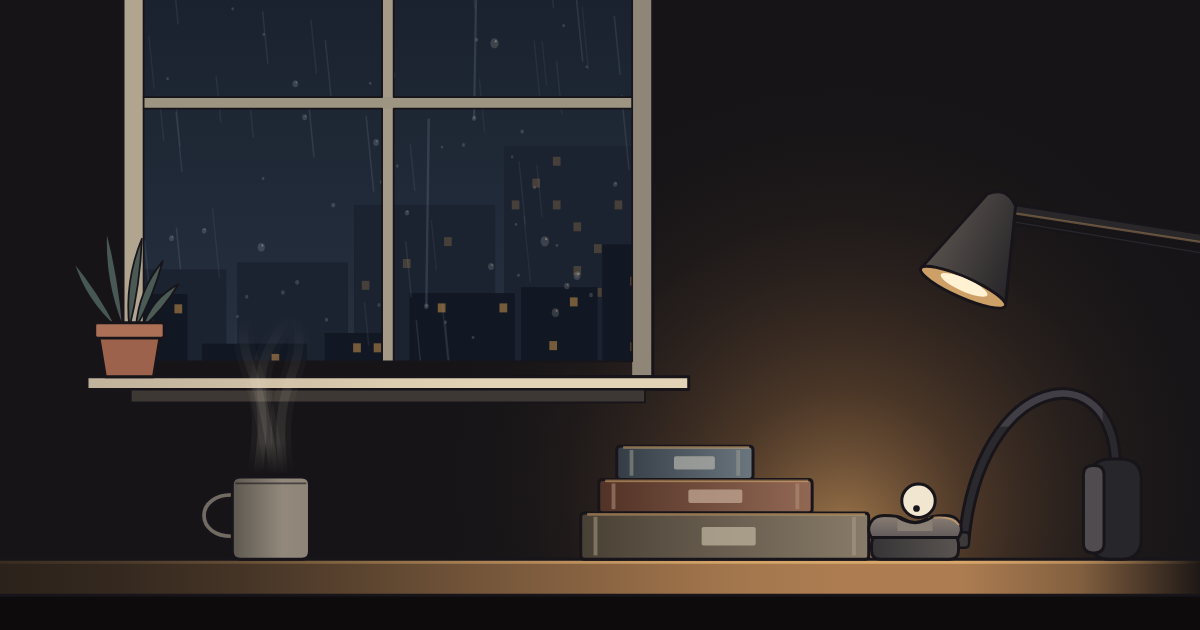
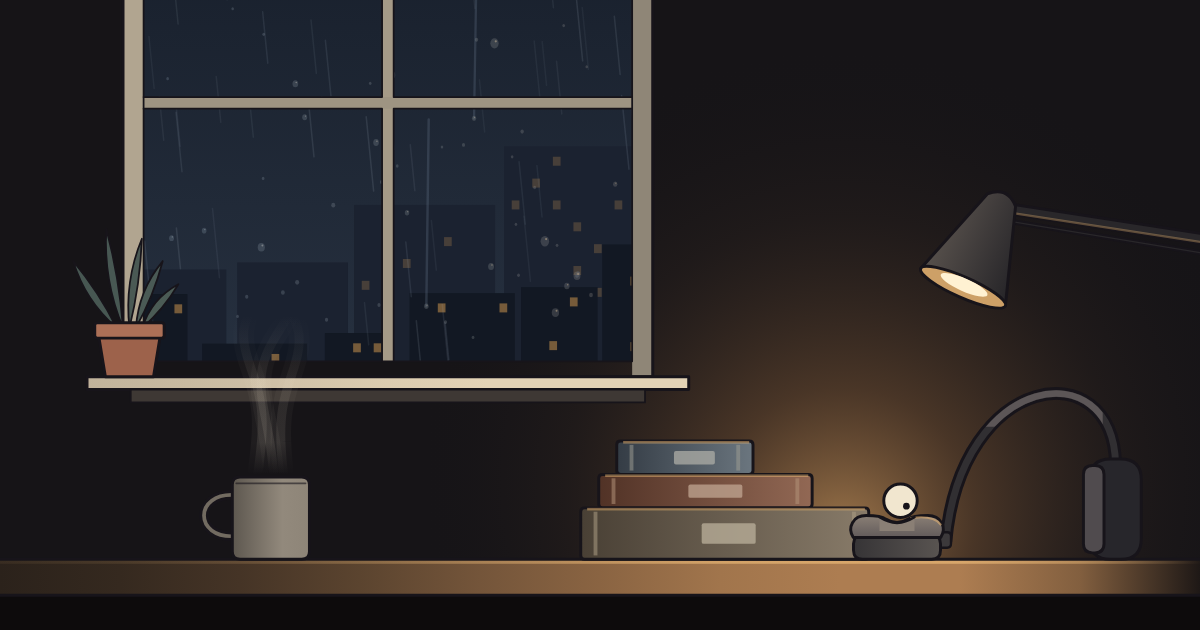
Soft Lamp: the last step down is a drop into the seat, on the beat
The bottom book's top stood level with the cup's cushion, so the ball
crept to the book's corner, lingered, rolled onto the cushion's rim on
beat three and only then down into the hollow: the arrival was late and
the landing invisible. The bottom book is thicker (the stair's risers
stay even, the sill's drop onto the top book a little shorter) and the
cup lies a little in front of its corner, so the ball tips off and
drops 0.12 cells into the hollow, landing on beat three with a squash,
and one small damped rock settles it. The share card is re-taken at the
same moment.

Changed region(s): [[0.4933, 0.6333, 0.8633, 0.9048], [0.8633, 0.6032, 0.925, 0.6635]]

diff --git a/apps/rube/src/shows/versions/soft-lamp/lamp/desk.ts b/apps/rube/src/shows/versions/soft-lamp/lamp/desk.ts
@@ -35,19 +35,23 @@ export interface Book {
   pages: string
 }
 
-/** The stair, top step first: each book stands out to the right of the one on it by a step. */
+/**
+ * The stair, top step first: each book stands out to the right of the one on it by a step. The bottom one is the
+ * thick one, so its top stands a little over the cup's cushion and the last step is a drop into the seat.
+ */
 export const BOOKS: Book[] = [
-  { x0: 0.34, x1: 1.4, top: -0.88, bottom: -0.62, cover: '#4B5B6B', pages: '#D9CDB5' },
-  { x0: 0.2, x1: 1.86, top: -0.62, bottom: -0.36, cover: '#7A4A37', pages: '#DCD0B8' },
-  { x0: 0.06, x1: 2.3, top: -0.36, bottom: 0, cover: '#6E6150', pages: '#E3D8C2' },
+  { x0: 0.34, x1: 1.4, top: -0.92, bottom: -0.66, cover: '#4B5B6B', pages: '#D9CDB5' },
+  { x0: 0.2, x1: 1.86, top: -0.66, bottom: -0.4, cover: '#7A4A37', pages: '#DCD0B8' },
+  { x0: 0.06, x1: 2.3, top: -0.4, bottom: 0, cover: '#6E6150', pages: '#E3D8C2' },
 ]
 
 /**
  * The headphones, set down: the near cup lying on its back with its cushion up (the ball's seat), the band rising from
  * its far side in an arch, and the far cup standing on its edge at the band's other end, cushion toward the near one.
- * The near cup: its middle, half width, the cushion's top, and how deep its hollow is.
+ * The near cup: its middle, half width, the cushion's top, and how deep its hollow is. It lies a little in front of the
+ * bottom book's end, so the ball going over that book's edge comes down in the hollow.
  */
-export const CUP = { x: 2.66, halfW: 0.36, top: -0.34, hollow: 0.06 }
+export const CUP = { x: 2.52, halfW: 0.36, top: -0.34, hollow: 0.06 }
 /** Where the ball rests in the cup (its middle). */
 export const IN_CUP = { x: CUP.x, y: CUP.top + CUP.hollow - R }
 /** The far cup, standing: its middle, half its thickness, and its height. */

diff --git a/apps/rube/src/shows/versions/soft-lamp/lamp/route.ts b/apps/rube/src/shows/versions/soft-lamp/lamp/route.ts
@@ -150,8 +150,8 @@ export function hollowY(dx: number): number {
   return CUP.top - R + 1.5 * (a - SHOULDER) ** 2
 }
 
-/** Where it first touches the cushion, off the last book: on the cushion's near slope. */
-const CUP_LAND_DX = -0.26
+/** Where it comes down in the cushion off the last book: in the hollow, a little on the near side. */
+const CUP_LAND_DX = -0.1
 
 /* ------------------------------------------------------------------ the cup */
 
@@ -291,7 +291,7 @@ function build(): void {
       const start = at
       LEGS.push({ from: start, to: rollTo, kind: 'roll', track: tr.n, at: (t) => r(t - start) })
       LEGS.push({ from: rollTo, to: landAt, kind: 'fall', track: tr.n, at: (t) => fall.at(t - rollTo) })
-      LANDINGS.push({ t: landAt, s: next ? 0.4 : 0.3, on: next ? 'book' : 'cup', book: next ? i + 1 : undefined })
+      LANDINGS.push({ t: landAt, s: next ? 0.4 : 0.5, on: next ? 'book' : 'cup', book: next ? i + 1 : undefined })
       at = landAt
       x = fall.x
       v = fall.vx * 0.6

diff --git a/apps/rube/src/shows/versions/soft-lamp/SOFTLAMP.md b/apps/rube/src/shows/versions/soft-lamp/SOFTLAMP.md
@@ -98,7 +98,8 @@ A lap a track, the same round each time, timed to that track's own shape (`lamp/
 2. **The drop.** It goes over the end (it pivots on the corner and falls) and lands on the top book as the drums come
    in, exactly on their first downbeat.
 3. **The stair.** It rolls to the book's edge and steps down, a half bar a step, each landing on a strong beat (one or
-   three), the last onto the cup's cushion, and it settles into the cup's hollow with a few damped rocks.
+   three). The bottom book is the thick one and the cup lies a little in front of its end, so the last step is a drop
+   into the cup's hollow, landing on its beat with a squash, and one small damped rock settles it.
 4. **The cup.** Through the groove it sits there like a listener. On a kick struck on one or three (as hard as it was
    struck, as full as the bar is) the cushion pushes it up a little and it comes back down with a small second bob, so a
    nod settles rather than stops dead. It sways slowly side to side, a sway every two bars. Through a break there are no
@@ -170,6 +171,10 @@ What each round of scrubbing found, worst first, and what changed:
 11. **The sill walk all but stopped halfway** on the longest gap (the Hermite's ends were faster than its middle). Now
     an even walk, eased at both ends.
 12. **Zoom lost the ball 22% of the time**: now 0.1%.
+13. **The last step was not a step.** The bottom book's top stood level with the cushion, so the ball crept to the
+    corner, lingered, rolled onto the cushion's rim on the beat and only then down into the seat, its arrival late.
+    The bottom book is thicker (the stair's risers stay even) and the cup lies in front of its corner: the ball tips
+    off and drops into the hollow on beat three.
 
 **Subtracted:** the light cone; the pages turning on each track (considered and not built: the page is the notebook's
 second job); a cable from the headphones; a drinking bird that would have lifted the ball (a character, and a gag);
